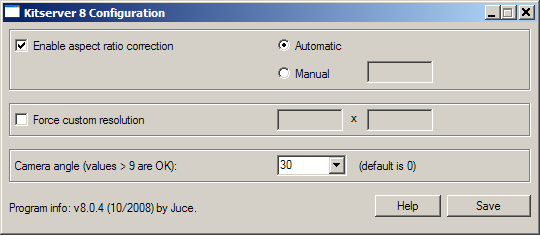
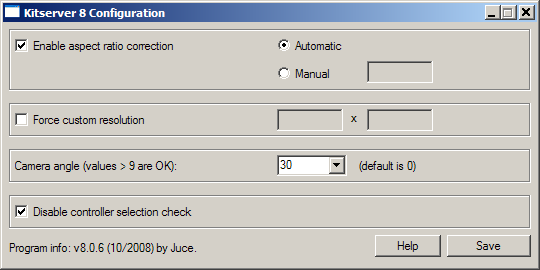
added "disable controller check" feature

Changed region(s): [[0.0, 0.0, 1.0, 0.9532], [0.6815, 0.2085, 0.8, 0.2681], [0.9778, 0.6851, 1.0, 0.7149]]

diff --git a/docs/manual.html b/docs/manual.html
@@ -49,7 +49,7 @@
 Version history: <a href="history.txt">history.txt</a><br />
 </div>
 <div>
-October 20, 2008 - <b>Kitserver 8.0.5</b><br />
+October 20, 2008 - <b>Kitserver 8.0.6</b><br />
 </div>
 <p class="note">
 The most up-to-date version of this documentation, and the translations to many languages, are located here: <a href="http://kitserver.ath.cx/docs">http://kitserver.ath.cx/docs/</a>
@@ -66,7 +66,7 @@ Below is a quick summary of the available features. Follow the link in the left 
         <th><b>afs2fs.dll</b></th>
         <td>Manage AFS (.img) game content using files and folders: much easier and quicker to install/remove patches, without the need modify *.img files</td>
     </tr>
-    <tr><td><a href="#lodmixer">LOD Mixer 8.0.4</a></td>
+    <tr><td><a href="#lodmixer">LOD Mixer 8.0.6</a></td>
         <th><b>lodmixer.dll</b></th>
         <td>Various tweaks to graphics and game options: 
 Any window resolution supported, hidden fullscreen resolutions unlocked;
@@ -283,6 +283,18 @@ Hidden fullscreen resolutions are fully unlocked now as well. However, only thos
 that your video card really supports in full-screen mode, will work. If you 
 accidently choose an unsupported fullscreen resolution, then PES should still 
 be able to start in a window.
+</p>
+
+<h5>5.3. Controller check</h5>
+<p>
+This feature may be useful to people who like to play a tournament - a league or
+cup together. PES 2009 doesn't allow human players to control both teams, unless
+both of their selected teams are playing against each other in the match. With
+this new feature, you can remove that limitation. Now, even if it is for example,
+P1 vs. COM game, or P2 vs. COM - you can freely select which team you control
+with each controller. So, you can both play on the same team, or you can let 
+your friend control the opposition - to make things more interesting.
+You can also now choose a "Spectator" mode for in tournaments.
 </p>
 
 <a name="camera"><br /></a>

diff --git a/src/lodcfg.cpp b/src/lodcfg.cpp
@@ -43,6 +43,12 @@ The bigger the value, the more camera turns when following the ball,\n\
 as opposed to rolling alongside the pitch. This helps to achieve\n\
 nice 'TV-broadcasting'-type views.\n\
 \n\
+About controller check: PES 2009 doesn't allow human players to control\n\
+both teams, unless both of their selected teams are playing against \n\
+each other in the match. Now you can remove that limitation. So, even\n\
+for P1 vs. COM game, or P2 vs. COM - you can freely select which team\n\
+you control with each controller.\n\
+\n\
 Dont't forget to press the [Save] button!";
 
 /**
@@ -55,11 +61,6 @@ pretty powerful machine and a good videocard, then try moving the \n\
 sliders to the right: the game engine will switch the LODs later, \n\
 and therefore give you more detail.\n\
 \n\
-About controller check: PES 2008 doesn't allow human players to control\n\
-both teams, unless both of their selected teams are playing against \n\
-each other in the match. Now you can remove that limitation. So, even\n\
-for P1 vs. COM game, or P2 vs. COM - you can freely select which team\n\
-you control with each controller.\n\
 **/
 
 LMCONFIG _lmconfig = {
@@ -400,7 +401,7 @@ void UpdateConfig(LMCONFIG& cfg)
 
     // Aspect ratio
     bool arChecked = SendMessage(g_arCheckBox, BM_GETCHECK, 0, 0);
-    _setConfig("lodmixer", "aspect-ratio.correction.enabled", 
+    _setConfig("lodmixer", "aspect-ratio.correction.disabled", 
             (arChecked)?wstring(L"1"):wstring(L"0"));
     _removeConfig("lodmixer", "screen.aspect-ratio");
     if (arChecked)
@@ -474,11 +475,11 @@ void UpdateConfig(LMCONFIG& cfg)
     bool controllerChecked = SendMessage(g_controllerCheckBox, BM_GETCHECK, 0, 0);
     if (controllerChecked)
     {
-        _setConfig("lodmixer", "controller.check.enabled", wstring(L"1"));
+        _setConfig("lodmixer", "controller.check.disabled", wstring(L"1"));
     }
     else
     {
-        _removeConfig("lodmixer", "controller.check.enabled");
+        _removeConfig("lodmixer", "controller.check.disabled");
     }
 }
 
@@ -507,7 +508,7 @@ int APIENTRY WinMain(HINSTANCE hInstance,
     _getConfig("lodmixer", "lod.switch1", DT_FLOAT, 4, lodmixerConfig);
     _getConfig("lodmixer", "lod.switch2", DT_FLOAT, 5, lodmixerConfig);
     _getConfig("lodmixer", "aspect-ratio.correction.enabled", DT_DWORD, 6, lodmixerConfig);
-    _getConfig("lodmixer", "controller.check.enabled", DT_DWORD, 7, lodmixerConfig);
+    _getConfig("lodmixer", "controller.check.disabled", DT_DWORD, 7, lodmixerConfig);
     _getConfig("camera", "angle", DT_DWORD, 8, lodmixerConfig);
 
     UpdateControls(_lmconfig);

diff --git a/src/lodmixer.cpp b/src/lodmixer.cpp
@@ -30,6 +30,8 @@ void getResolution(DWORD& width, DWORD& height);
 void setResolution(DWORD width, DWORD height);
 void setAspectRatio(float aspectRatio, bool manual);
 void setSwitchesForLOD(float switch1, float switch2);
+void lodAtModeCheckCallPoint();
+KEXPORT DWORD lodAtModeCheck(DWORD mode);
 
 EXTERN_C BOOL WINAPI DllMain(HINSTANCE hInstance, DWORD dwReason, LPVOID lpReserved)
 {
@@ -76,7 +78,7 @@ void initLodMixer()
     getConfig("lodmixer", "lod.switch1", DT_FLOAT, 4, lodmixerConfig);
     getConfig("lodmixer", "lod.switch2", DT_FLOAT, 5, lodmixerConfig);
     getConfig("lodmixer", "aspect-ratio.correction.enabled", DT_DWORD, 6, lodmixerConfig);
-    getConfig("lodmixer", "controller.check.enabled", DT_DWORD, 7, lodmixerConfig);
+    getConfig("lodmixer", "controller.check.disabled", DT_DWORD, 7, lodmixerConfig);
     LOG2N(L"Screen resolution to force: %dx%d", 
             _lmconfig.screen.width, _lmconfig.screen.height);
 
@@ -99,7 +101,7 @@ void initLodMixer()
     if (_lmconfig.controllerCheckEnabled)
     {
         bptr = (BYTE*)code[C_MODE_CHECK];
-        if (bptr)
+        if (bptr && getPesInfo()->gameVersion < gvPES2009demo)
         {
             // need to insert a bit of code, to handle the special
             // case of Exhibition Mode. 61 bytes before C_MODE_CHECK is a good place.
@@ -120,6 +122,12 @@ void initLodMixer()
                     LOG(L"Mode check disabled for controller selection.");
                 }
             } 
+        }
+        else if (bptr)
+        {
+            // PES2009: use callpoint
+            HookCallPoint(code[C_MODE_CHECK], lodAtModeCheckCallPoint, 6, 1);
+            LOG(L"Mode check disabled for controller selection.");
         }
     }
 
@@ -230,3 +238,35 @@ void setSwitchesForLOD(float switch1, float switch2)
     }
 }
 
+void lodAtModeCheckCallPoint()
+{
+    __asm {
+        pushfd 
+        push ebp
+        push eax
+        push ebx
+        push edx
+        push esi
+        push edi
+        mov [edi+0x13c], eax  // execute replaced code
+        push ecx
+        call lodAtModeCheck
+        mov ecx,eax
+        add esp,4     // pop parameters
+        pop edi
+        pop esi
+        pop edx
+        pop ebx
+        pop eax
+        pop ebp
+        popfd
+        retn
+    }
+}
+
+KEXPORT DWORD lodAtModeCheck(DWORD mode)
+{
+    if (mode != 0)
+        return 1;
+    return 0;
+}

diff --git a/src/lodcfgui.cpp b/src/lodcfgui.cpp
@@ -369,6 +369,7 @@ bool BuildControls(HWND parent)
 	style = WS_CHILD | WS_VISIBLE;
 
     y += spacer*4;
+    */
 
     // controller check
     x = spacer;
@@ -387,7 +388,6 @@ bool BuildControls(HWND parent)
 
 	y += boxH + spacer*2;
     x = spacer*2;
-    */
 
 	// BOTTOM sections: buttons
 	

diff --git a/src/lodcfg.h b/src/lodcfg.h
@@ -6,7 +6,7 @@
 #else
 #define LODCFG_WINDOW_TITLE "Kitserver 8 Configuration (debug build)"
 #endif
-#define CREDITS "Program info: v8.0.5 (10/2008) by Juce."
+#define CREDITS "Program info: v8.0.6 (10/2008) by Juce."
 
 typedef struct _LCM {
     WORD homeTeamId;

diff --git a/src/lodcfgui.h b/src/lodcfgui.h
@@ -6,7 +6,7 @@
 #include <windows.h>
 
 #define WIN_WIDTH 540 
-#define WIN_HEIGHT 235
+#define WIN_HEIGHT 270
 //#define WIN_HEIGHT 365
 
 extern HWND g_lodListControl[5];          // lod lists

diff --git a/src/lodmixer.h b/src/lodmixer.h
@@ -1,7 +1,7 @@
 // lodmixer.h
 
 #define MODID 101
-#define NAMELONG L"LOD Mixer 8.0.4.0"
+#define NAMELONG L"LOD Mixer 8.0.6.0"
 #define NAMESHORT L"LODMIXER"
 #define DEFAULT_DEBUG 0
 

diff --git a/src/lodmixer_addr.h b/src/lodmixer_addr.h
@@ -40,7 +40,7 @@ DWORD codeArray[][CODELEN] = {
     },
     // PES2009 
     {
-        0xe192c8, 0,
+        0xe192c8, 0xdbffce,
     },
 };
 
